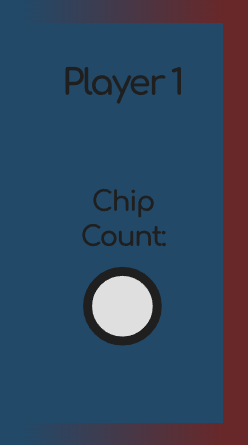
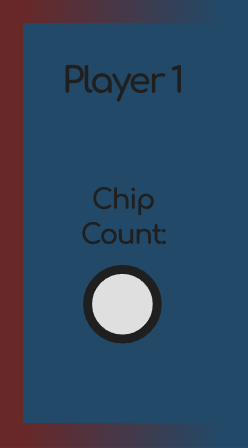
Added the player panels.

diff --git a/ChipFlip/Managers/BoardManager.cs b/ChipFlip/Managers/BoardManager.cs
@@ -32,6 +32,8 @@ namespace ChipFlip.Managers
         private Texture _chip1Texture;
         private Texture _chip2Texture;
         private Sprite _boarder;
+        private Sprite _player1Panel;
+        private Sprite _player2Panel;
         public Tile highlight;
         public Tile redHighlight;
         public int Rows { get; set; }
@@ -46,17 +48,6 @@ namespace ChipFlip.Managers
             Columns = 8;
             Rows = 8;
         }
-        
-        public void Load()
-        {
-            LoadTextures();
-            boardSize.Width = tileSize.Width * Columns;
-            boardSize.Height = tileSize.Height * Rows;
-            offsetX = (Globals.WindowSize.X / 2) - (boardSize.Width / 2);
-            offsetY = (Globals.WindowSize.Y / 2) - (boardSize.Height / 2);
-            _boarder.Position = new Vector2 (offsetX - ((_boarder.Texture.Width - boardSize.Width) / 2), offsetY - ((_boarder.Texture.Height - boardSize.Height) / 2));
-            CreateBoard();
-        }
 
         private void LoadTextures()
         {
@@ -65,6 +56,8 @@ namespace ChipFlip.Managers
             _chip1Texture = new Texture("chip1");
             _chip2Texture = new Texture("chip2");
             _boarder = new Sprite("BoardBorder");
+            _player1Panel = new Sprite("Player1Panel");
+            _player2Panel = new Sprite("Player2Panel");
 
             if (textures.Count > 0)
             {
@@ -72,6 +65,20 @@ namespace ChipFlip.Managers
                 tileSize.Height = textures[0].Height;
             }
         }
+
+        public void Load()
+        {
+            LoadTextures();
+            boardSize.Width = tileSize.Width * Columns;
+            boardSize.Height = tileSize.Height * Rows;
+            offsetX = (Globals.WindowSize.X / 2) - (boardSize.Width / 2);
+            offsetY = (Globals.WindowSize.Y / 2) - (boardSize.Height / 2);
+            _boarder.Position = new Vector2 (offsetX - ((_boarder.Texture.Width - boardSize.Width) / 2), offsetY - ((_boarder.Texture.Height - boardSize.Height) / 2));
+            _player1Panel.Position = new Vector2(offsetX - (_player1Panel.Texture.Width + 24), offsetY - 24);
+            _player2Panel.Position = new Vector2(_boarder.Position.X + _boarder.Texture.Width, offsetY - 24);
+            CreateBoard();
+        }
+
         private void CreateBoard()
         {
             board = new Tile[Columns, Rows];
@@ -478,6 +485,8 @@ namespace ChipFlip.Managers
         public void Draw()
         {
             _boarder.Draw();
+            _player1Panel.Draw();
+            _player2Panel.Draw();
 
             for (int y = 0; y < board.GetLength(1); y++)
             {

diff --git a/ChipFlip/Managers/GameManager.cs b/ChipFlip/Managers/GameManager.cs
@@ -36,8 +36,8 @@ namespace ChipFlip.Managers
             _mouseText = new Text("My Text Test", new Vector2(10f, Globals.WindowSize.Y - 70));
             _infoText = new Text("", new Vector2(10f, Globals.WindowSize.Y - 50));
             _highlightText = new Text("", new Vector2(10f, Globals.WindowSize.Y - 90));
-            _player1ChipCtText = new Text("", new Vector2(_board.offsetX / 2, 100f));
-            _player2ChipCtText = new Text("", new Vector2(_board.offsetX / 2, 200f));
+            _player1ChipCtText = new Text("", new Vector2(595f, 607f));
+            _player2ChipCtText = new Text("", new Vector2(1291, 607f));
             whosTurn = 0;
         }
 
@@ -63,8 +63,8 @@ namespace ChipFlip.Managers
             _mouseText.Update("Mouse: X: " + Mouse.GetState().X + ", Y: " + Mouse.GetState().Y + " | Clicked At: X: " + InputManager.ClickedPoint.X + ", Y: " + InputManager.ClickedPoint.Y);
             _infoText.Update("Window: Width: " + Globals.WindowSize.X + " Height: " + Globals.WindowSize.Y + " | Map: Width: " + _board.boardSize.Width + " Height: " + _board.boardSize.Height + " | Tile: Width: " + _board.tileSize.Width + " Height: " + _board.tileSize.Height + " | Cols: " + _board.Columns + ", Rows: " + _board.Rows);
             _highlightText.Update("Hightlight Tile Pos: " + _board.highlight.Position + " | Mouse on: Column: " + (Mouse.GetState().X / _board.Columns) + ", Row: " + (Mouse.GetState().Y / _board.Rows) + " | IsLeftMouseClicked = " + InputManager.IsLeftMouseClicked + " | IsMouseClicked: " + InputManager.IsMouseClicked);
-            _player1ChipCtText.Update("Player 1 Chip Count: " + _board.chip1Ct);
-            _player2ChipCtText.Update("Player 2 Chip Count: " + _board.chip2Ct);
+            _player1ChipCtText.Update(_board.chip1Ct.ToString());
+            _player2ChipCtText.Update(_board.chip2Ct.ToString());
         }
 
         public void Update()
